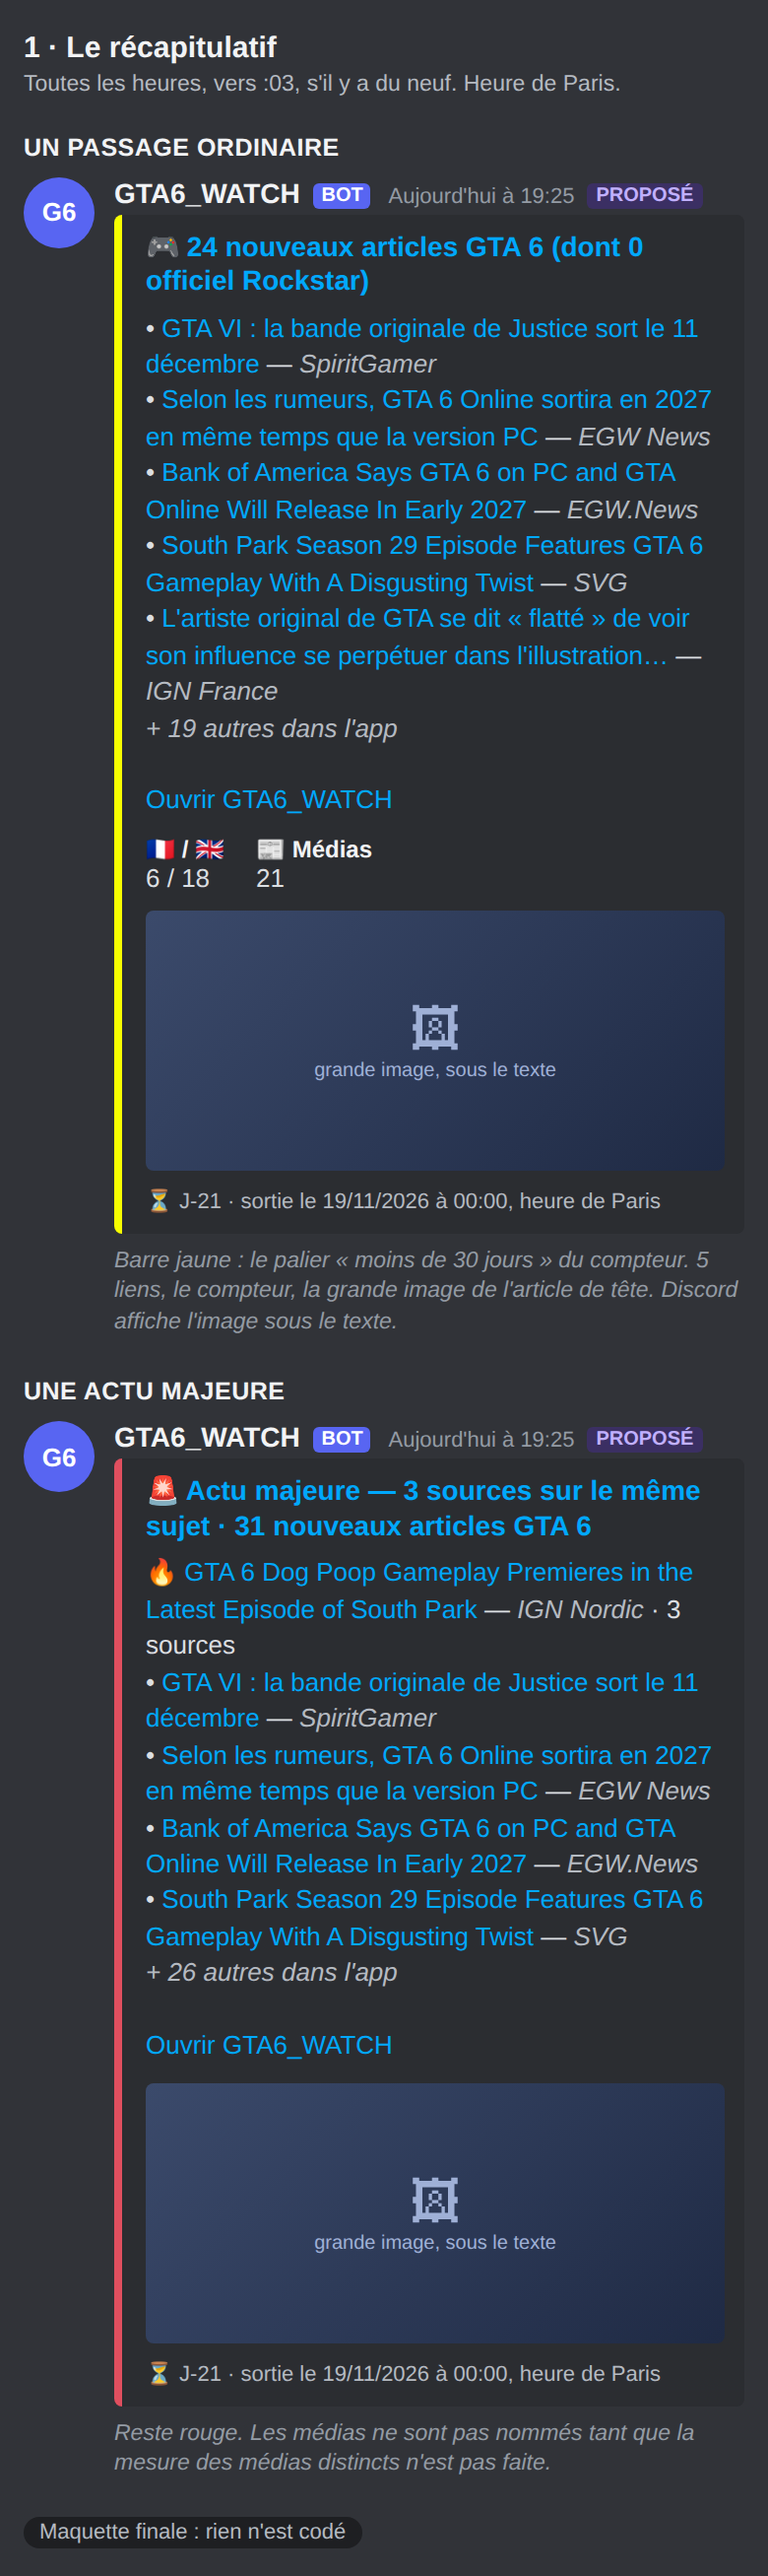
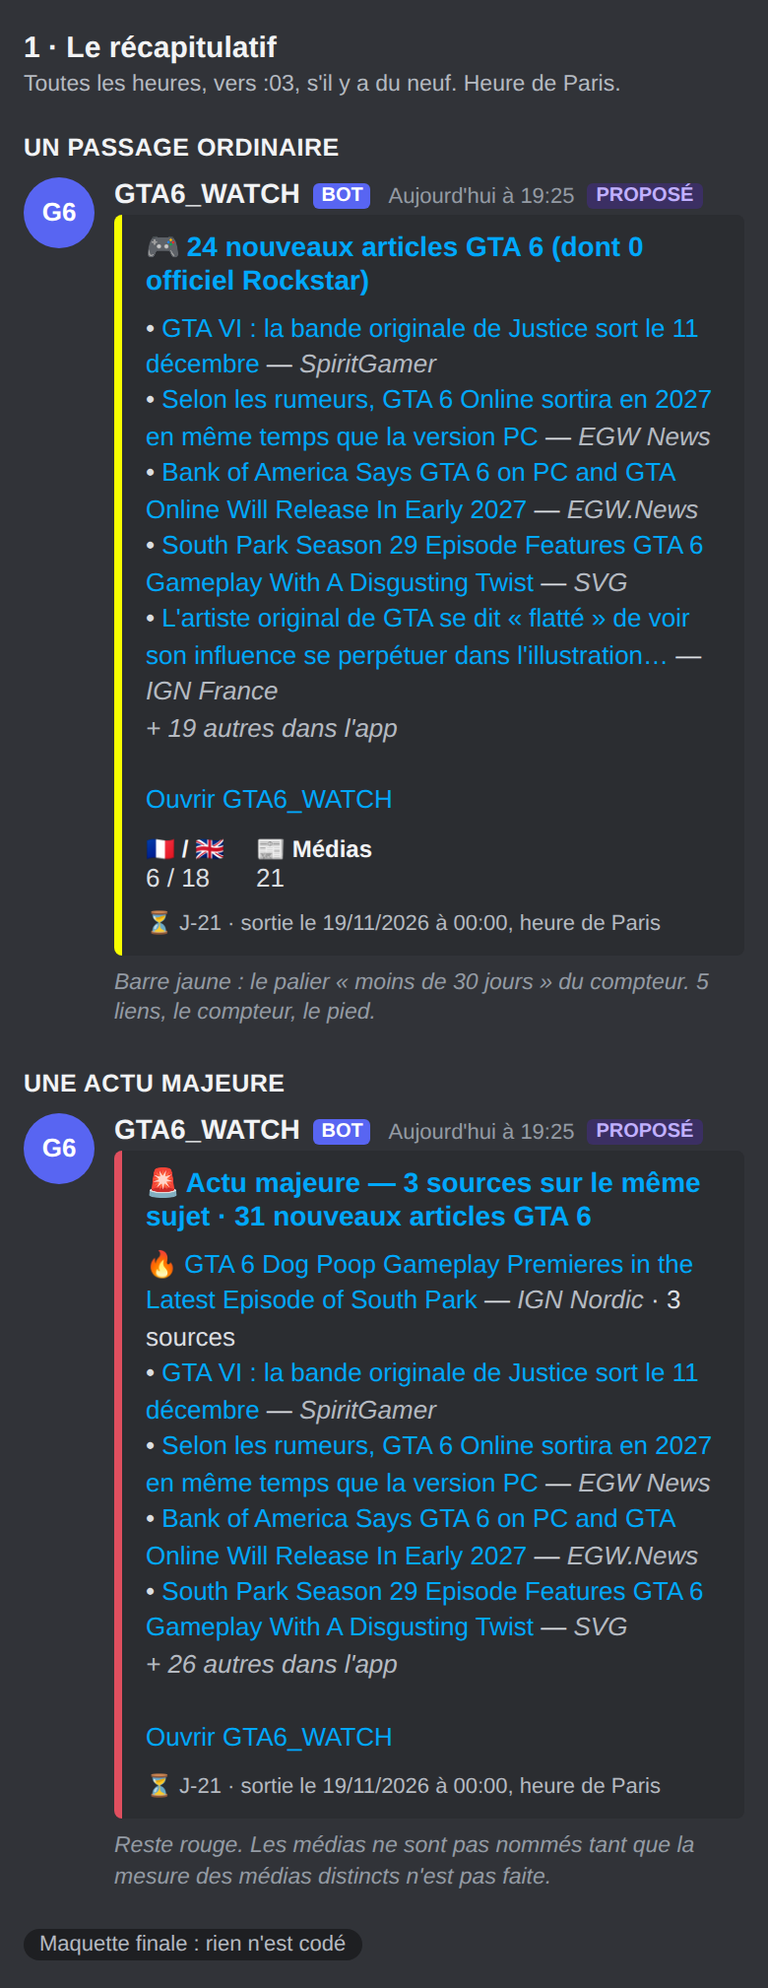
Spec Discord : plus aucune image dans les notifications
Antoni retire la grande image et la vignette, sur Discord comme sur le push (l'icône et le
badge de l'app restent). Spec, visuels, README et RESTE-A-FAIRE refaits sans image.

Claude-Session: https://claude.ai/code/session_01DqaCi1a9z33GCLfRvxZycB

diff --git a/tasks/spec-discord-notification.md b/tasks/spec-discord-notification.md
@@ -21,16 +21,16 @@ Visuels, dans `tasks/visuels-discord/` :
 
 | sujet | décision |
 |---|---|
-| Images | **Une grande image partout** : récapitulatif, annonces officielles, carte RockstarMag. Aucun filtre de spoilers. Discord n'en accepte qu'une par carte et l'affiche **sous le texte**, pas au-dessus (à vérifier en vrai, voir Risques). |
+| Images | **Aucune image, nulle part** (décision du 29/10 au soir, qui annule celle de l'après-midi) : ni grande image ni vignette, sur Discord comme sur le push. Messages plus courts, aucun risque de spoiler visuel. L'icône et le badge de l'app dans le push ne sont pas des images d'article : ils restent. |
 | Règle commune | **5 liens au plus par notification, puis un compteur pour les autres articles, quelle que soit la catégorie** (récapitulatif, annonces officielles, carte RockstarMag). |
 | Récapitulatif | Reste à **5 lignes puis un compteur**. L'idée « plus de lignes » est retirée. |
 | Compte à rebours | Pied « ⏳ J-N · sortie le 19/11/2026 à 00:00 », couleur de barre du palier du compteur. **Après la sortie : « Sorti depuis N jours ».** |
 | Ligne de chiffres | 🇫🇷 / 🇬🇧 et nombre de médias. |
 | Actu majeure | **Inchangée** : rouge, pas de médias nommés. On **mesure d'abord les médias distincts** (voir 2). |
 | Bilan du soir | Un message par jour à 22 h, **avant et après la sortie**. |
-| Annonces officielles | **Une seule notification par passage, 5 liens au plus puis un compteur** ; grande image, type de contenu, heure de publication, pied commun ; **annonces d'abord, boutique ensuite** ; **la boutique garde la catégorie « officiel »** ; fusion EN/FR avec **titre en français** ; mesure du retard, relue après **10 alertes**. |
+| Annonces officielles | **Une seule notification par passage, 5 liens au plus puis un compteur** ; type de contenu, heure de publication, pied commun ; **annonces d'abord, boutique ensuite** ; **la boutique garde la catégorie « officiel »** ; fusion EN/FR avec **titre en français** ; mesure du retard, relue après **10 alertes**. |
 | RockstarMag | **Carte séparée**, 🎬 pour les vidéos, extrait du résumé, **silence la nuit**, **reste après la sortie**, couleur de **l'accent de l'app**. Le récapitulatif **liste aussi** ses articles. |
-| Écarté | Mention `@` qui sonne ; passage plus fréquent sur les flux officiels ; vignette filtrée ; rappel d'agenda ; plus de lignes. |
+| Écarté | Mention `@` qui sonne ; passage plus fréquent sur les flux officiels ; toute image (vignette, grande image) ; rappel d'agenda ; plus de lignes. |
 
 ## État actuel, mesuré (29/10/2026)
 
@@ -38,26 +38,19 @@ Visuels, dans `tasks/visuels-discord/` :
   « + N autres dans l'app ». Les passages du jour comptaient 9 à 31 articles.
 - Une ligne du récapitulatif : 200 caractères en médiane, 343 au maximum ; les 10 plus
   longues font 3 195 caractères, sous les 3 900 gardés pour la description.
-- 3 300 articles dans le fil : **87 %** des 300 plus récents ont une image, toutes en https
-  (la plus longue URL fait 263 caractères, Discord en accepte 2 048) ; 280 articles le 29/10.
+- 280 articles le 29/10 ; 116 par jour en moyenne du 22 au 28/10.
 - Les messages arrivent vers **:03** (le robot finit à :03). Pause nocturne 00 h–05 h :
   rien ne part, sauf une annonce officielle.
 
 ## 1 · Le récapitulatif
 
-1. **Grande image** : celle de l'article de tête (l'ordre existant : un officiel d'abord,
-   sinon le plus récent). Il faut garder `image` dans l'aperçu (septième champ ;
-   `apercu_de` en garde six, pour le coût dans `feed.json` pendant la pause nocturne : une
-   URL de 263 caractères au plus sur cinq aperçus est négligeable, à mesurer avant de
-   livrer). Sans image valide (https, 2 048 caractères au plus) : rien, le message part
-   comme aujourd'hui.
-2. **Pied et couleur.** Pied « ⏳ J-N · sortie le 19/11/2026 à 00:00, heure de Paris », N en
+1. **Pied et couleur.** Pied « ⏳ J-N · sortie le 19/11/2026 à 00:00, heure de Paris », N en
    **jours civils à Paris** (même règle que l'agenda). Barre : moins de 24 h rose `#ff2fa8`,
    moins de 7 jours orange `#ff8a00`, moins de 30 jours jaune `#f7ff00`, sinon bleu
    `#5493FF` ; les seuils sont ceux de `palierCompteur` dans l'app, recopiés côté robot avec
    un test qui **les lit dans `docs/index.html`**. L'actu majeure garde son rouge. Après la
    sortie : « 🎮 Sorti depuis N jours » et la barre repasse au bleu.
-3. **Ligne de chiffres** : champs « 🇫🇷 / 🇬🇧 » et « 📰 Médias », sur les articles du passage. Le
+2. **Ligne de chiffres** : champs « 🇫🇷 / 🇬🇧 » et « 📰 Médias », sur les articles du passage. Le
    récapitulatif du matin additionne la nuit : il n'affiche que la répartition FR/EN (la langue
    se garde dans les comptes mis de côté), pas un nombre de médias qui ne serait plus un compte
    de distincts.
@@ -96,11 +89,11 @@ exception de plus à « un seul message par passage ».
 qui porte le **nom du flux**, un lien vers l'app ; plafond de 10 alertes détaillées
 (`NOTIFS_OFFICIELLES_MAX`), puis une carte qui liste les suivantes. Mesuré : 85 officiels sur
 3 300 articles, 24 jours concernés (10 avec une seule alerte, au plus 5 hors rafale), 6 flux
-officiels sur 70. 77 officiels sur 85 ont une image (91 %), 3 seulement un résumé. Le dernier,
+officiels sur 70. 3 seulement ont un résumé. Le dernier,
 « Original Score by Justice », est arrivé par **Google News (EN)** : l'alerte l'affiche comme
 source alors que son lien est sur rockstargames.com.
 
-- **O1 · Grande image** de l'annonce (pas pour la carte groupée). Mêmes règles de validité.
+- **O1 · (retirée)** Plus aucune image, décision du 29/10 au soir.
 - **O2 · Le vrai type**, tiré du **domaine du lien** (comme `statut_officiel`), jamais du nom du
   flux : rockstargames.com → 📰 Rockstar Newswire (42 articles), youtube.com → 🎬 Vidéo Rockstar
   (5), support.rockstargames.com → 🛠 Assistance Rockstar (5), ir.take2games.com → 📈
@@ -125,9 +118,8 @@ source alors que son lien est sur rockstargames.com.
   annonces d'un même passage ne sont donc **plus des messages séparés** : un message
   « ⭐ N annonces officielles Rockstar », 5 lignes (📰 / 🎬 / 🛍, titre, heure) et « + N autres
   annonces officielles, toutes dans l'app ». Une seule annonce donne un message à 1 lien,
-  avec le type, l'heure et la grande image, comme dans O1 à O3. Le 08/10 (32 officiels, dont 28
+  avec le type et l'heure, comme dans O2 et O3. Le 08/10 (32 officiels, dont 28
   produits de boutique) : **1 message au lieu de 11**.
-  - La grande image est celle de la **première ligne**.
   - **Ordre : les annonces non-boutique d'abord, puis la boutique, chacune par date** : par
     date décroissante, les 4 vraies annonces du 08/10 auraient été aux rangs 27 à 32, toutes
     cachées dans le compteur. **La boutique garde la catégorie « officiel ».**
@@ -149,14 +141,13 @@ source alors que son lien est sur rockstargames.com.
 
 Mesuré : **130 articles sur 3 300** (3,9 %), sur 54 jours, **médiane 2 par jour, au plus 14**. En
 octobre : 18 jours sur 29, et 4 le 29/10. 57 sont des vidéos YouTube (44 %), 43 viennent du flux
-du site, 30 de Google News FR. **130 sur 130 ont une image** ; 100 sur 130 un résumé (493
+du site, 30 de Google News FR. 100 sur 130 un résumé (493
 caractères en médiane), mais **3 des 4 articles du 29/10, arrivés par Google News, n'en ont
 pas**. 14 sont publiés entre minuit et 4 h. Ils sont déjà protégés de l'effacement de
 l'historique (`item_protege`).
 
 - **Une carte séparée** après le récapitulatif, « 📰 RockstarMag — N nouveau(x) », **5 liens au plus**
-  et « + N autres dans l'app », 📰 (site) ou **🎬 (vidéo, domaine youtube.com)**, **grande image** du
-  premier article, **extrait de 160 caractères** du premier article qui en a un (nettoyé par
+  et « + N autres dans l'app », 📰 (site) ou **🎬 (vidéo, domaine youtube.com)**, **extrait de 160 caractères** du premier article qui en a un (nettoyé par
   `nettoie_resume`), rien sinon, même pied « ⏳ J-N ».
 - **Couleur** : celle de **l'accent de l'app** (`--accent`, `#58b9ff`), car l'onglet RockstarMag n'a
   pas de couleur propre. Elle est **presque identique au bleu du récapitulatif** (`#5493FF`) ; à
@@ -184,20 +175,13 @@ RockstarMag qui continuent.
 
 ## Risques et ce que je ne sais pas
 
-- **L'image sous le texte.** Dans un embed, Discord affiche la grande image sous la description,
-  pas au-dessus du titre. C'est ma connaissance de Discord, pas une mesure : à vérifier avec un
-  premier envoi réel avant de généraliser.
-- **Aucun filtre de spoilers** (choix d'Antoni) : une image de fuite s'afficherait en grand. Le
-  mode « sans spoiler » de l'app, lui, floute ; le robot ne le fait pas.
-- **L'image d'un site tiers peut ne pas s'afficher** (lien direct refusé) : le message reste
-  intact, sans image.
 - **Discord limite un embed à 6 000 caractères** : cinq lignes de 343 caractères, des champs et un
   pied tiennent largement.
 - **Exceptions à « un seul message par passage »** : alertes de source, annonces officielles
   (désormais un seul message pour toutes celles du passage), carte RockstarMag, bilan du soir
   quotidien.
 - Les maquettes sont des dessins : Discord sur téléphone peut rendre un peu différemment, et les
-  images y sont des espaces réservés.
+  marqueurs et les chiffres sont des exemples.
 
 ## Ordre de réalisation proposé
 
@@ -205,14 +189,13 @@ Un lot par PR, chacun avec ses contrôles et sa preuve d'échec, après ton « g
 1. **Mesures sans effet visible** : retard des officiels (O4) et médias distincts de l'actu majeure
    (2). Elles demandent du temps pour s'accumuler, donc d'abord.
 2. **Pied, couleur et « Sorti depuis N jours »** (récapitulatif, officiels, RockstarMag).
-3. **Annonces officielles** : type, heure, grande image, plafond de 5, ordre, fusion EN/FR.
-4. **Grande image du récapitulatif** et ligne de chiffres.
+3. **Annonces officielles** : type, heure, une seule notification de 5 liens, ordre, fusion EN/FR.
+4. **Ligne de chiffres** du récapitulatif.
 5. **Carte RockstarMag.**
 6. **Bilan du soir.**
 
 ## Contrôles prévus (chacun prouvé capable d'échouer contre l'ancien code)
 
-- Image : https et 2 048 caractères au plus, sinon rien ; celle de l'article de tête.
 - Pied : seuils lus dans `docs/index.html`, de chaque côté, à minuit Paris et au changement
   d'heure ; rouge conservé pour l'actu majeure ; « Sorti depuis N jours » après le 19/11 00:00.
 - Chiffres : langue comptée, y compris à travers la pause nocturne ; pas de nombre de médias le
@@ -221,7 +204,7 @@ Un lot par PR, chacun avec ses contrôles et sa preuve d'échec, après ton « g
   générique ; **un seul message par passage**, 5 liens au plus et le compteur exact (0, 1, 5,
   6, 11 et 32 officiels) ; annonces avant boutique ; même identifiant d'article dans le même passage → un
   seul message, identifiants différents → jamais fusionnés ; la ligne de retard n'écrit ni titre,
-  ni lien, ni image.
+  ni lien.
 - RockstarMag : une carte par passage où un article est entré, jamais de nuit ; un seul envoi même
   relancé ; un article trouvé en retard est quand même envoyé ; 🎬 seulement pour youtube.com ;
   extrait absent quand aucun n'en a ; cinq liens et compteur exact ; le récapitulatif continue de

diff --git a/README.md b/README.md
@@ -9804,3 +9804,8 @@ jours, médiane de 2 par jour (au plus 14), 44 % de vidéos YouTube, 130 sur 130
 avaient pas. Choix d'Antoni : une carte séparée, 🎬 pour les vidéos, un extrait, silence
 la nuit.
 
+**Plus aucune image dans les notifications** (29/10/2026, au soir, demande d'Antoni) : ni grande
+image ni vignette, sur Discord comme sur le push ; l'icône et le badge de l'app dans le push
+restent. Ce choix annule celui de l'après-midi (« une grande image partout »). Spec et visuels
+refaits sans image.
+

diff --git a/RESTE-A-FAIRE.md b/RESTE-A-FAIRE.md
@@ -1868,3 +1868,7 @@ Correction du 29/10/2026 : « 5 liens max par notification, quelle que soit la c
 annonces officielles d'un passage tiennent désormais dans **un seul message** de 5 liens au
 plus et un compteur (j'avais compris 5 messages puis une carte). Visuels et spec mis à jour.
 
+Plus aucune image dans les notifications (29/10/2026, au soir) : Antoni retire la grande image
+et la vignette, sur Discord comme sur le push, ce qui annule son choix de l'après-midi. Spec et
+visuels refaits sans image.
+
